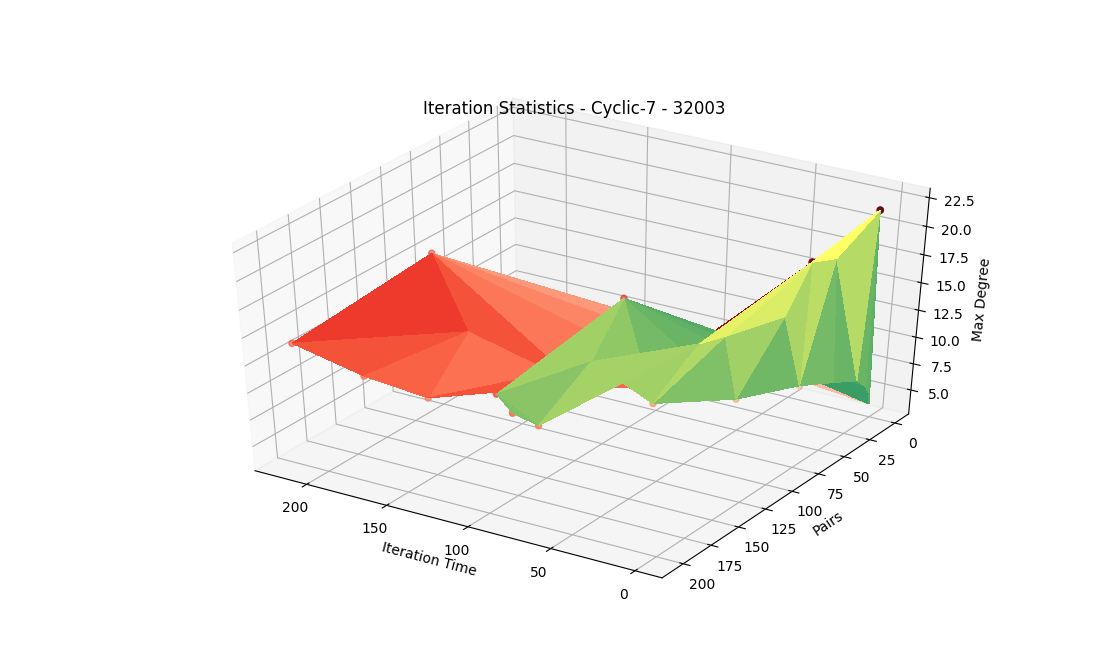
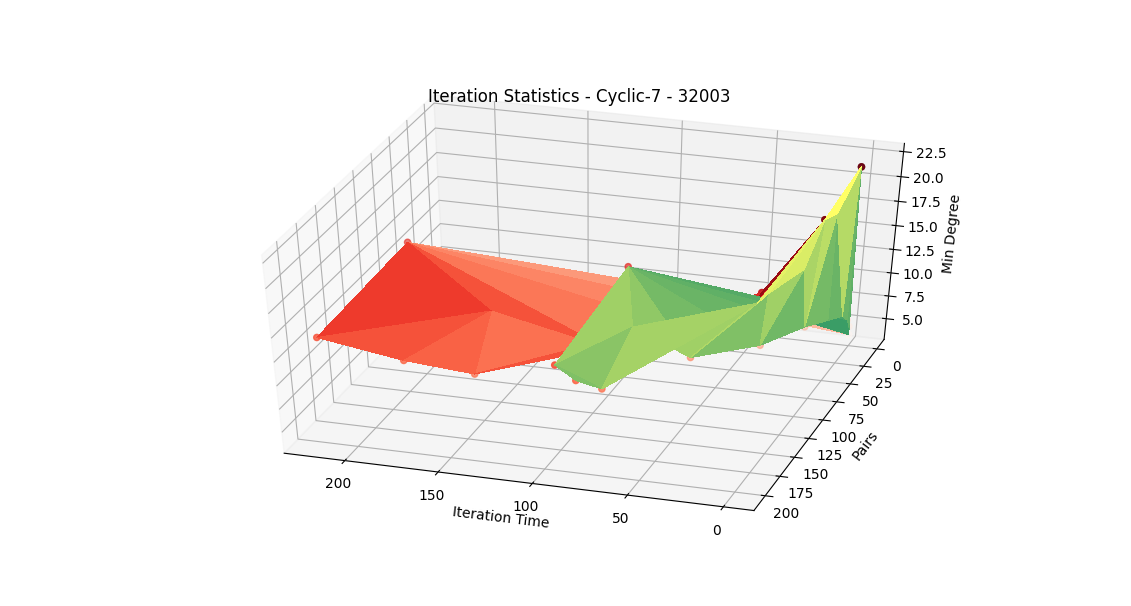
Changed pictures and fixed wording error

Changed region(s): [[0.2188, 0.1485, 0.9062, 0.8911]]

diff --git a/sage_implementation/3d_plotting/3d_plot.py b/sage_implementation/3d_plotting/3d_plot.py
@@ -48,7 +48,7 @@ ax.plot_trisurf(x_points, y_points, z_points, linewidth=0.2, antialiased=False, 
 
 ax.set_xlabel('Iteration Time')
 ax.set_ylabel('Pairs')
-ax.set_zlabel('Max Degree')
+ax.set_zlabel('Min Degree')
 ax.set_title('Iteration Statistics - Katsura-8 - 32003')
 
 
@@ -79,7 +79,7 @@ ax.plot_trisurf(x_points, y_points, z_points, linewidth=0.2, antialiased=False, 
 
 ax.set_xlabel('Iteration Time')
 ax.set_ylabel('Pairs')
-ax.set_zlabel('Max Degree')
+ax.set_zlabel('Min Degree')
 ax.set_title('Iteration Statistics - Cyclic-7 - 32003')
 
 plt.show()
